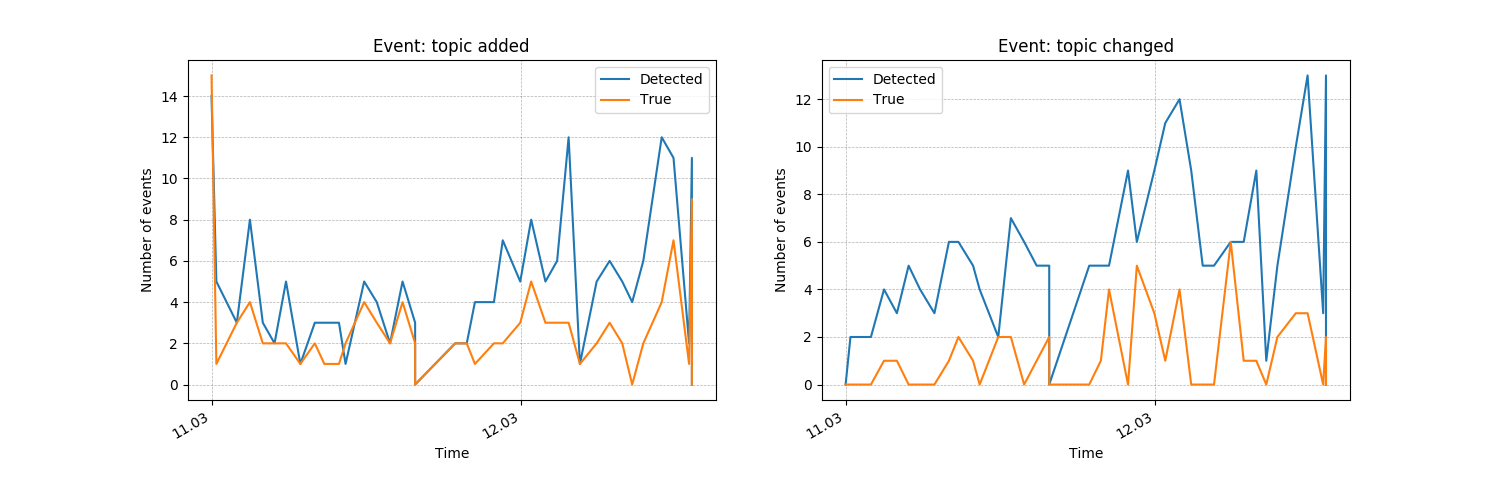
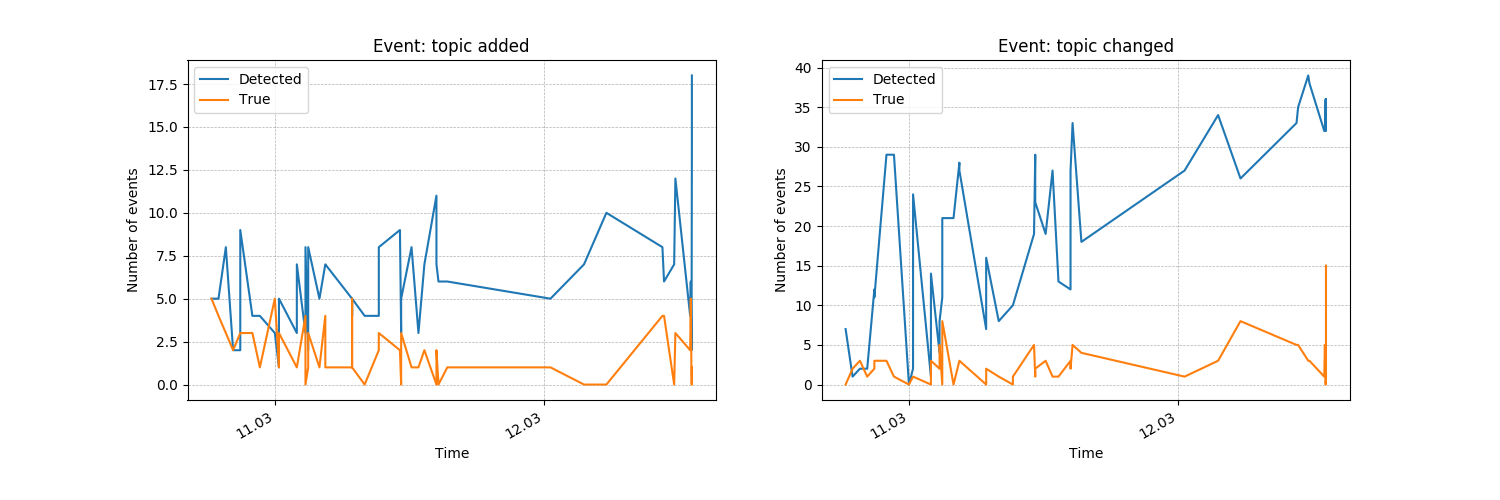
Minor fix for online evaluation

diff --git a/app/data_processing/online_clustering.py b/app/data_processing/online_clustering.py
@@ -45,7 +45,8 @@ def cluster_news(news_articles):
 
     model = HDBSCAN(min_cluster_size=5, metric="cosine")
 
-    data_matrix = vectorizer.fit_transform(news_articles["newspaper_text"])
+    #data_matrix = vectorizer.fit_transform(news_articles["newspaper_text"])
+    data_matrix = vectorizer.fit_transform(news_articles["text_lemmatized_without_stopwords"])
     labels = model.fit_predict(data_matrix)
 
     # Clusters are identified by a sorted string of news ids
@@ -62,7 +63,7 @@ def find_changes_in_clusters(existing_clusters, new_cluster_identifiers):
     unchanged_clusters = []
     new_clusters = []
 
-    lsh = MinHashLSH(threshold=0.8, num_perm=256)
+    lsh = MinHashLSH(threshold=0.75, num_perm=256)
     min_hashes = dict()
     for index, cluster in existing_clusters.iterrows():
         m = create_minhash(cluster["identifier"])
@@ -133,7 +134,7 @@ def find_true_events(new_news_ids, existing_news_ids):
             existing_ids = existing_stories[story]
             additions = news_ids - existing_ids
             deletions = existing_ids - news_ids
-            if len(additions) > 0 and len(deletions) > 0:
+            if len(additions) > 0 or len(deletions) > 0:
                 change_events.append(
                     {"story": story, "additions": additions, "deletions": deletions}
                 )

diff --git a/app/data_processing/db.py b/app/data_processing/db.py
@@ -132,6 +132,7 @@ def get_news_articles_from_date(date, nrows=1000, skip_rows=0):
         "SELECT *"
         " FROM news_article"
         " WHERE newspaper_processed = 1"
+        "     AND preprocessed = 1"
         "     AND title_keywords_intersection = 1"
         "     AND hostname != 'newsledge.com'"
         "     AND hostname != 'www.newsledge.com'"
@@ -141,8 +142,8 @@ def get_news_articles_from_date(date, nrows=1000, skip_rows=0):
         "     AND newspaper_text NOT LIKE '%%javascript%%'"
         "     AND newspaper_text NOT LIKE '%%404%%'"
         "     AND newspaper_text NOT LIKE '%%cookie%%'"
-        "     AND date <= %s"
-        " ORDER BY date DESC"
+        "     AND computed_publish_date <= %s"
+        " ORDER BY computed_publish_date DESC"
         " LIMIT %s, %s"
     )
 

diff --git a/app/data_processing/plots.py b/app/data_processing/plots.py
@@ -328,7 +328,7 @@ def plot_event_detection_by_date():
 
     plt.xlabel("Time")
     plt.ylabel("Number of events")
-    plt.title("Event: topic changed")
+    plt.title("Event: topic extended")
     plt.legend()
     plt.grid(True, "major", ls="--", lw=0.5, c="k", alpha=0.3)
 
@@ -482,7 +482,7 @@ def table_preprocessing():
 
 
 # Clustering method evaluation
-plot_accuracy_samples()
+# plot_accuracy_samples()
 # plot_processing_time_samples()
 # plot_cluster_difference_samples()
 # plot_noise_ratio_samples()
@@ -492,5 +492,5 @@ plot_accuracy_samples()
 # plot_articles_per_story_distribution()
 
 # Online clustering evaluation
-# plot_event_detection_by_date()
-# plot_event_detection_overlap()
+plot_event_detection_by_date()
+plot_event_detection_overlap()

diff --git a/doc/4_results.tex b/doc/4_results.tex
@@ -162,6 +162,10 @@ TODO new topic, topic extended
 
 TODO cluster stability
 
+TODO show plot with news distribution over time
+
+TODO evaluate different thresholds
+
 \begin{figure}[h]
     \centering
     \includegraphics[width=1\textwidth]{event_detection_by_date}

diff --git a/doc/notes/cluster_evaluation.md b/doc/notes/cluster_evaluation.md
@@ -110,3 +110,14 @@ AND newspaper_text NOT LIKE '%%404%%'
 python cluster_evaluation_table.py --stories 60 --methods hdbscan,kmeans --tokenizers newspaper_text,text_keyterms,text_entities,text_keyterms_and_entities,text_lemmatized_without_stopwords,text_stemmed_without_stopwords --runs 3
 
 docker-compose run -d  cluster_evaluation python cluster_evaluation_table.py --methods kmeans,hdbscan  --stories 30,60,100,150,200,250,300,500,600,800,1000 --runs 3 --tokenizers newspaper_text,text_lemmatized_without_stopwords --vectorizers TfidfVectorizer
+
+docker-compose run -d  cluster_evaluation python cluster_evaluation_table.py --methods kmeans,hdbscan  --stories 2000,2500,3000,3500,4000 --runs 2 --tokenizers newspaper_text,text_lemmatized_without_stopwords --vectorizers TfidfVectorizer
+
+ALTER TABLE data_database.method_evaluation CHANGE avg_unique_precision corrected_avg_unique_accuracy float DEFAULT NULL NULL;
+ALTER TABLE data_database.method_evaluation CHANGE avg_precision avg_unique_accuracy float DEFAULT NULL NULL;
+
+
+2014-05-08
+2014-09-05
+
+docker-compose run -d  cluster_evaluation python online_clustering.py --date "2014-05-08 00:00:00" --run_n_days 180 --full_rows 10000 --rows 2000 --verbose
